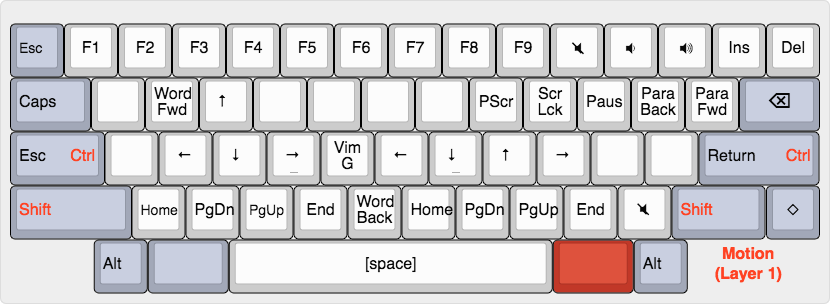
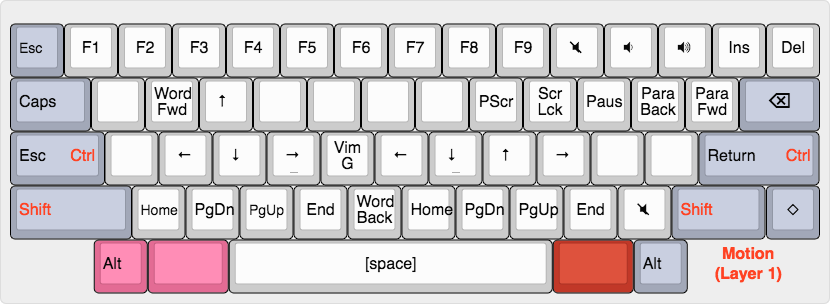
updated the layer file so layer 3 (motion) has a TRNS for LALT and LGUI as these can be pressed together to enter that layer. Updated the Motion layer image to reflect the above key press to enter it. Added the alt layer (number 4).

diff --git a/keyboard/hhkb/keymap_uk.c b/keyboard/hhkb/keymap_uk.c
@@ -75,7 +75,7 @@ const uint8_t PROGMEM keymaps[][MATRIX_ROWS][MATRIX_COLS] = {
            CAPS,   NO,  FN6,   UP,   NO,   NO,   NO,   NO, PSCR, SLCK, PAUS, FN10,  FN9, TRNS,      \
            TRNS,   NO, LEFT, DOWN, RGHT,  FN8, LEFT, DOWN,   UP, RGHT,   NO,   NO, TRNS,            \
            TRNS, HOME, PGDN, PGUP,  END,  FN7, HOME, PGDN, PGUP,  END, MUTE, TRNS, TRNS,            \
-                LALT,   NO,          SPC,               TRNS, RALT),
+                TRNS, TRNS,          SPC,               TRNS, RALT),
 
     /* Layer 4: Alt layer */
     KEYMAP(TRNS,   F1,   F2,   F3,   F4,   F5,   F6,   F7,   F8,   F9,  F10,  F11,  F12,  INS, FN26,\
@@ -368,8 +368,6 @@ void action_function(keyrecord_t *record, uint8_t id, uint8_t opt)
 const action_t PROGMEM fn_actions[] = {
     // Layers
     [0] = ACTION_LAYER_MOMENTARY(3),                // motion mode
-    //[1] = ACTION_LAYER_MOMENTARY(1),                // brackets mode
-    //[2] = ACTION_LAYER_MOMENTARY(2),                // numpad mode
     [1] = ACTION_FUNCTION(BRACKETS_LAYER),          // enter the brackets layer
     [2] = ACTION_FUNCTION(NUMPAD_LAYER),            // numpad layer
     [3] = ACTION_LAYER_MODS(4, MOD_LALT),           // enter layer 4 on holding esc, with alt held
